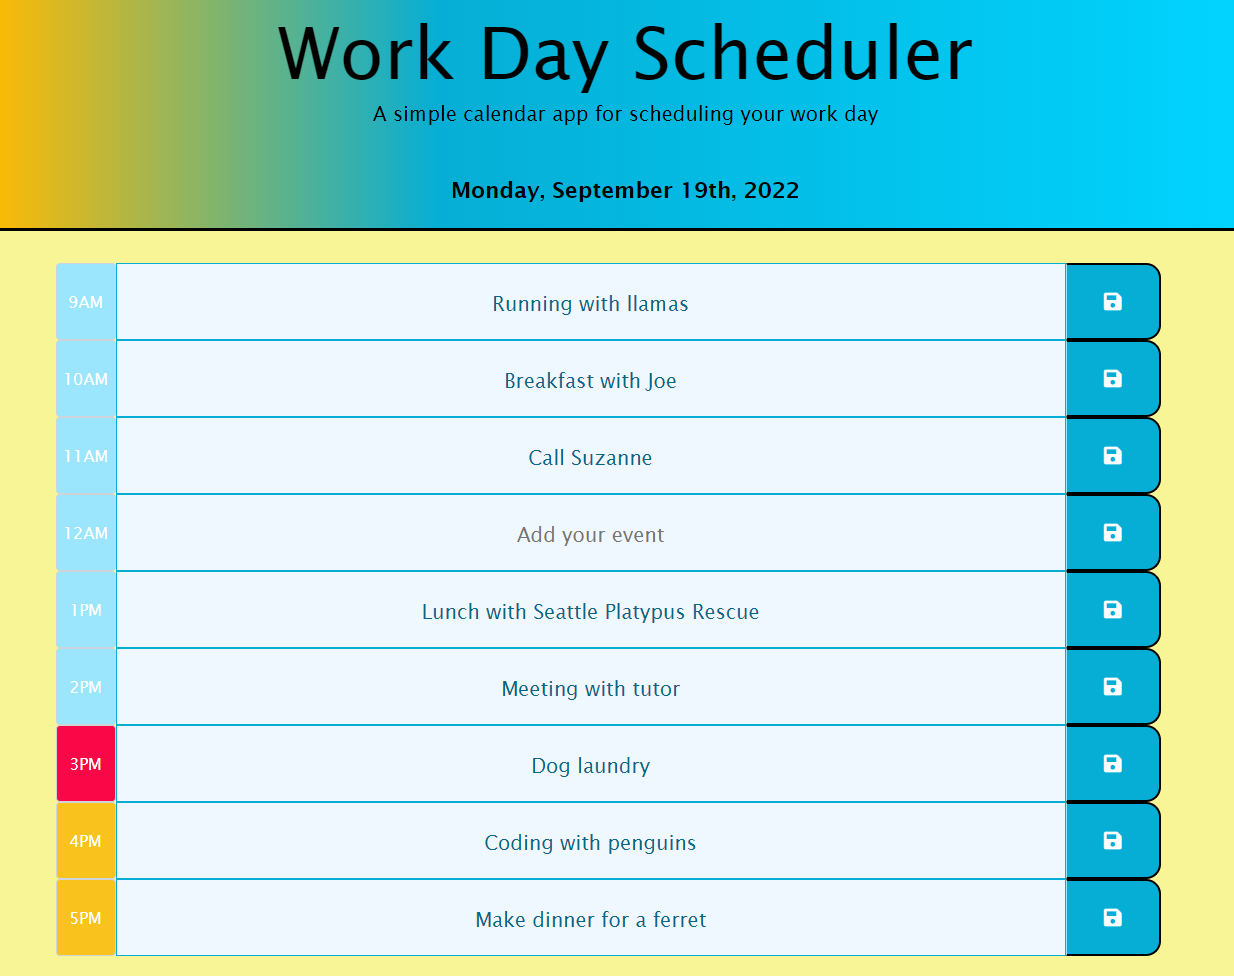
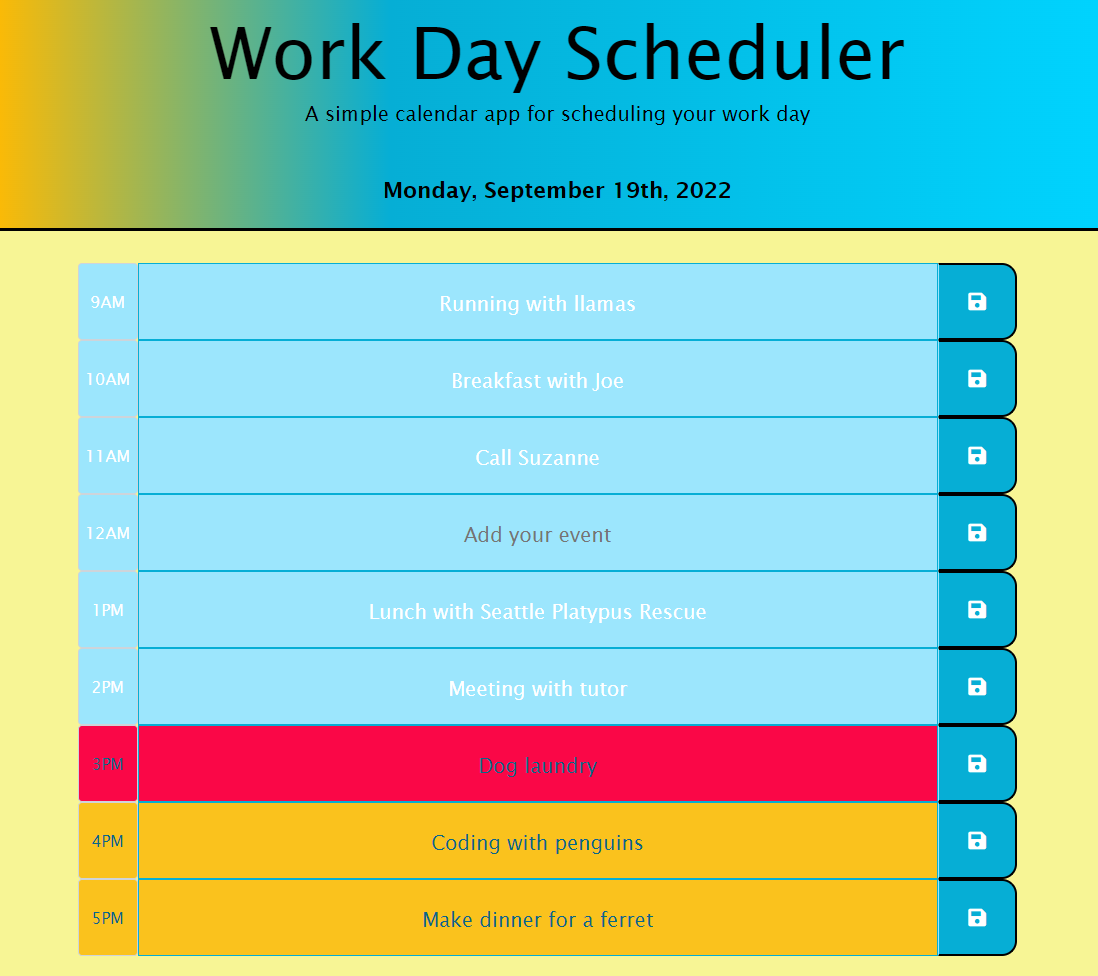
Updated README with new screenshot.

diff --git a/assets/style.css b/assets/style.css
@@ -62,13 +62,13 @@ body {
   /* Class that can be applied to time blocks that are in the present. */
   .present, .present + textarea {
     background-color: #fa0747;
-    color: white
+    color: #086788
   }
   
    /* Class that can be applied to time blocks that are in the future */
   .future, .future + textarea {
     background-color: #fab907d7;
-    color: white
+    color: #086788
   }
   
   /* Button to save the text information along with the time. */
